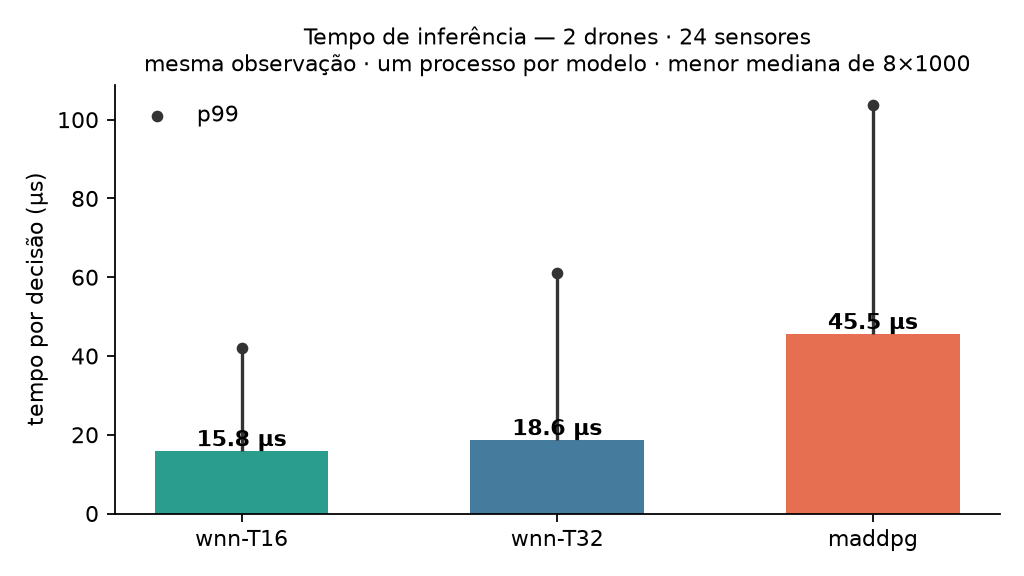
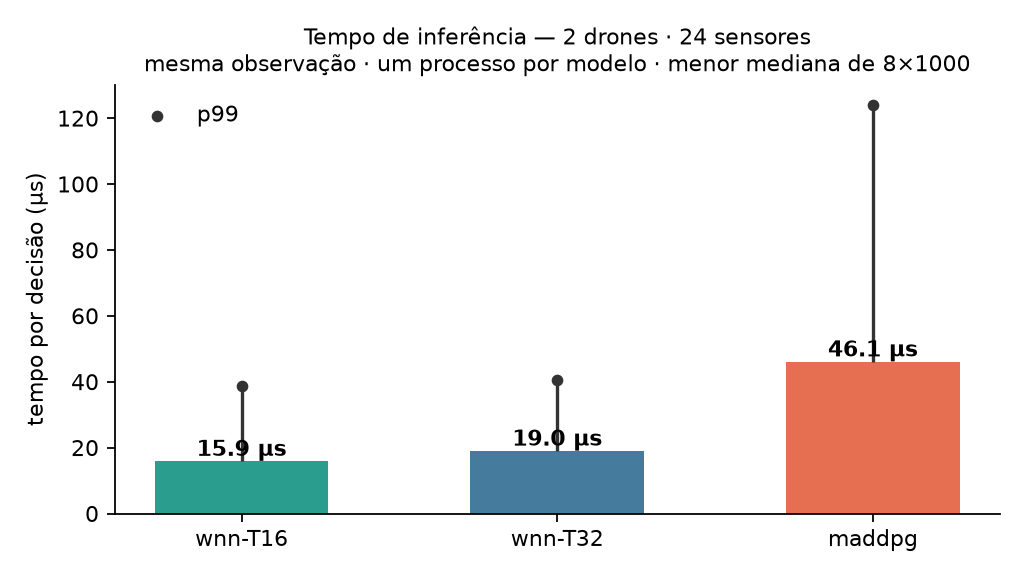
feat(spec-06): a figura de memória mostra as quatro leituras
T1 artefato (u16+f32, a definição da SPEC-03 e da tabela do custo-comparado),
residente em RAM (chave global int32 + mapeamento + limiares — o que a LUTPlana
de fato ocupa executando), disco, e ator+crítico (o custo de treino). Cada uma
responde outra pergunta, e a divergência entre elas foi pergunta do usuário —
melhor as quatro na mesma figura que uma escolhida.

O primeiro traço saiu errado: variante "hash" no T1, que carrega o fator de
carga da tabela (~1,9×, 561 KB em vez de 296). É "ordenado" — o vetor sem
folga, que é também o que a LUTPlana implementa.

O maddpg leva a marca †: o .cleanrl_model traz ator e crítico no mesmo arquivo,
então a barra "disco" dele já é o total — sem a marca, a comparação com o disco
das WNN (só ator) leria errado.

diff --git a/scripts/spec06_latencia_memoria.py b/scripts/spec06_latencia_memoria.py
@@ -133,9 +133,21 @@ def _filho_wnn(na: int, ns: int, t_res: int) -> dict:
         z = np.load(npz_critico, allow_pickle=True)
         critico_kb = sum(z[k].nbytes for k in z.files if k != "config") / 1024
 
+    # T1 modelado: o artefato mínimo (chave uint16 + valores float32) — a
+    # definição da SPEC-03, a mesma da tabela do custo-comparado. Difere do
+    # residente porque a LUT em execução usa chave GLOBAL int32 (ram·4096+end
+    # passa de 16 bits) mais o mapeamento das tuplas e os limiares.
+    from uavwnn.custo.memoria import custo_ntuple_de_rede
+    # `ordenado`, não `hash`: é a variante da tabela do custo-comparado — o
+    # vetor ordenado sem fator de carga, que é também o que a LUTPlana faz.
+    t1_kb = custo_ntuple_de_rede(
+        ap.ator, variante="ordenado", limiares_por_dim=t_res,
+        n_dims=cfg.observation_size,
+        rotulo=f"T{t_res} a{na}s{ns}").persistente / 1024
+
     med, p99 = _cronometrar(lambda: pol(x))
     return {"modelo": f"wnn-T{t_res}", "mediana_us": med, "p99_us": p99,
-            "critico_kb": critico_kb,
+            "critico_kb": critico_kb, "t1_kb": t1_kb,
             "rss_base_kb": rss0, "rss_arcabouco_kb": rss_imports - rss0,
             "rss_modelo_kb": rss_carregado - rss_imports,
             "arrays_vivos_kb": vivos_kb,
@@ -173,7 +185,7 @@ def _filho_maddpg(na: int, ns: int) -> dict:
     with torch.no_grad():
         med, p99 = _cronometrar(lambda: pol(x))
     return {"modelo": "maddpg", "mediana_us": med, "p99_us": p99,
-            "critico_kb": critico_kb,
+            "critico_kb": critico_kb, "t1_kb": vivos_kb,
             "rss_base_kb": rss0, "rss_arcabouco_kb": rss_imports - rss0,
             "rss_modelo_kb": rss_carregado - rss_imports,
             "arrays_vivos_kb": vivos_kb,
@@ -286,26 +298,38 @@ def _graficos(linhas: list[dict], na: int, ns: int) -> list[Path]:
     f = RAIZ / "reports" / f"spec06-latencia-a{na}s{ns}.png"
     fig.savefig(f, dpi=160); plt.close(fig); saidas.append(f)
 
-    # -- memória: ator (voa) × ator + crítico (treina) --
+    # -- memória: TODAS as leituras, porque cada uma responde outra pergunta --
+    #    T1 artefato   o mínimo gravável (chave u16 + valores f32) — SPEC-03
+    #    residente     o que ocupa RAM executando (chave global int32 + mapas)
+    #    disco         o arquivo como está (no MADDPG traz ator E crítico †)
+    #    + crítico     o custo de TREINO (crítico não voa)
     import numpy as np
-    fig, ax = plt.subplots(figsize=(6.4, 3.6))
+    fig, ax = plt.subplots(figsize=(8.0, 4.2))
     x = np.arange(len(nomes))
-    ator = [r["arrays_vivos_kb"] for r in linhas]
-    total = [r["arrays_vivos_kb"] + r.get("critico_kb", 0.0) for r in linhas]
-    b1 = ax.bar(x - 0.19, ator, 0.38, color=cores, label="ator (voa)")
-    b2 = ax.bar(x + 0.19, total, 0.38, color=cores, alpha=0.45,
-                hatch="//", label="ator + crítico (treino)")
-    for barras in (b1, b2):
-        for b in barras:
-            ax.annotate(f"{b.get_height():,.0f}",
-                        (b.get_x() + b.get_width() / 2, b.get_height()),
-                        ha="center", va="bottom", fontsize=9)
-    ax.set_xticks(x, nomes)
+    series = [
+        ("T1 artefato (u16+f32)", [r["t1_kb"] for r in linhas], 1.0, None),
+        ("residente (RAM)", [r["arrays_vivos_kb"] for r in linhas], 0.72, None),
+        ("disco", [r["disco_kb"] for r in linhas], 0.45, None),
+        ("ator + crítico (treino)",
+         [r["arrays_vivos_kb"] + r.get("critico_kb", 0.0) for r in linhas],
+         0.30, "//"),
+    ]
+    lg = 0.2
+    for i, (nome, vals, alfa, hachura) in enumerate(series):
+        b = ax.bar(x + (i - 1.5) * lg, vals, lg * 0.92, color=cores,
+                   alpha=alfa, hatch=hachura, label=nome)
+        for bb, v in zip(b, vals):
+            ax.annotate(f"{v:,.0f}", (bb.get_x() + bb.get_width() / 2, v),
+                        ha="center", va="bottom", fontsize=7.5, rotation=90,
+                        xytext=(0, 2), textcoords="offset points")
+    rotulos = [n + (" †" if n == "maddpg" else "") for n in nomes]
+    ax.set_xticks(x, rotulos)
     ax.set_ylabel("KB")
-    ax.set_title(f"Memória do modelo — {rot}\n"
-                 "arrays medidos: LUT+termômetro / tensores; crítico não voa",
-                 fontsize=10)
-    ax.legend(frameon=False)
+    ax.set_title(f"Memória do modelo, nas quatro leituras — {rot}\n"
+                 "† o .cleanrl_model traz ator e crítico no MESMO arquivo — "
+                 "a barra 'disco' dele já é o total", fontsize=9.5)
+    ax.legend(frameon=False, fontsize=9, ncol=2)
+    ax.margins(y=0.18)
     ax.spines[["top", "right"]].set_visible(False)
     fig.tight_layout()
     f = RAIZ / "reports" / f"spec06-memoria-a{na}s{ns}.png"
